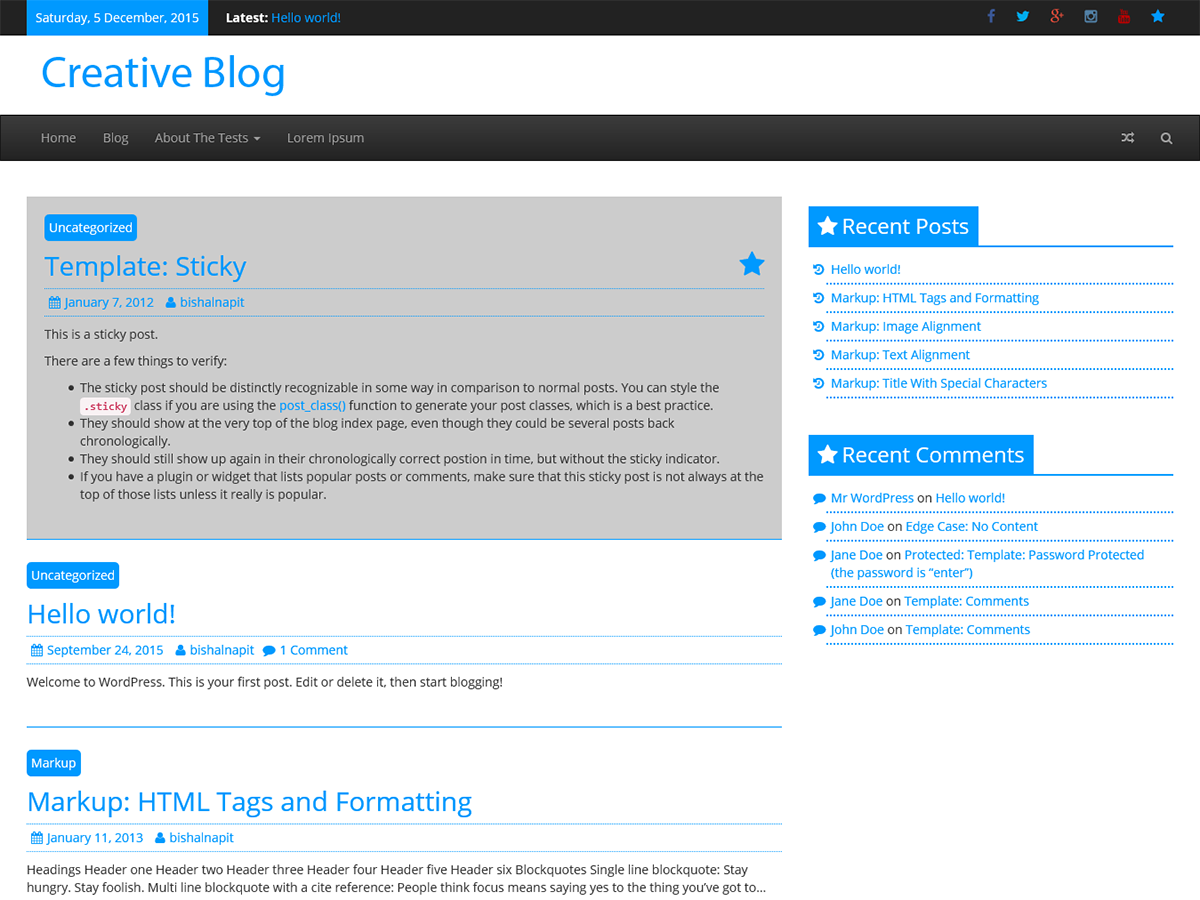
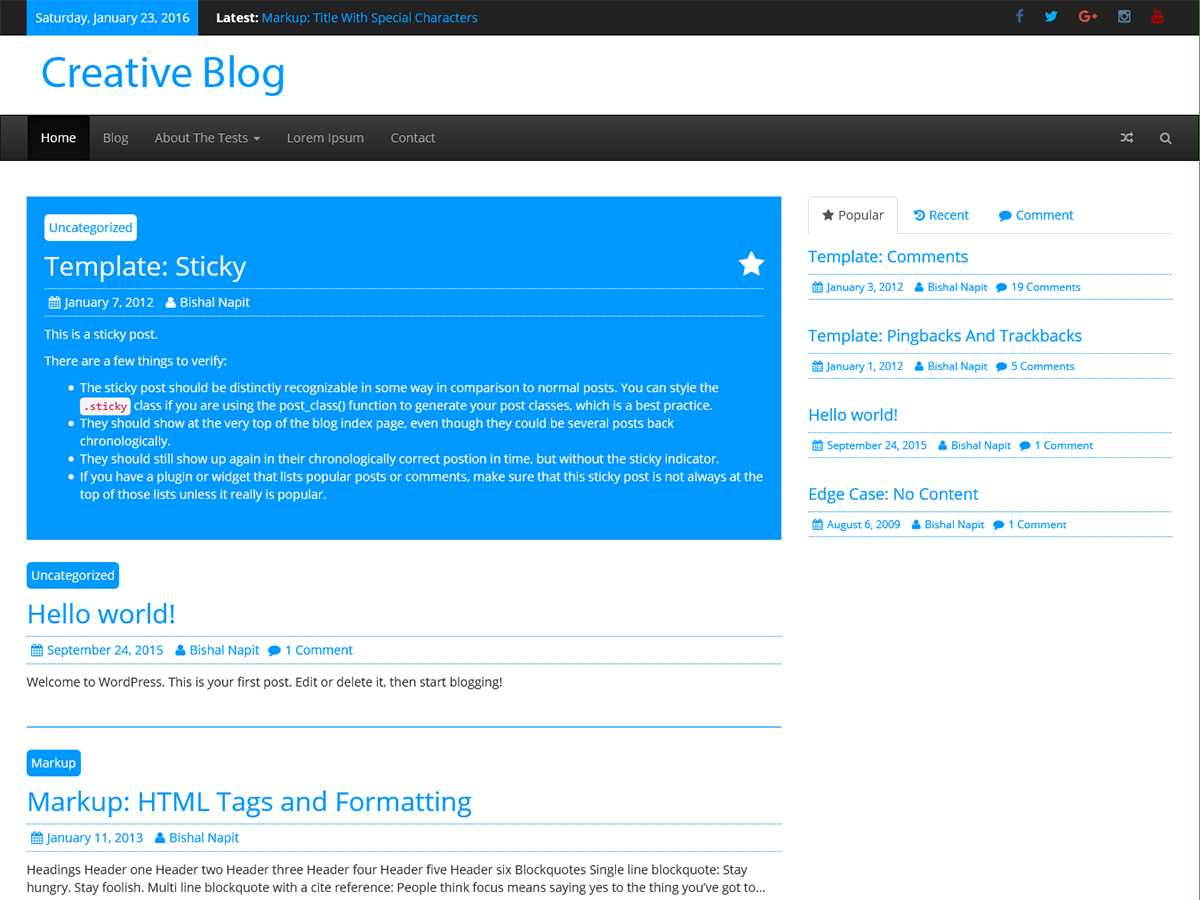
Sticky post and other post format styling adjustments done

diff --git a/style.css b/style.css
@@ -415,11 +415,32 @@ ul#menu-social {
     font-family: 'FontAwesome';
     float: right;
     content: "\f005";
-    color: #0099ff;
+    color: #fff;
 }
 .sticky {
-    background: #ccc;
+    background: #0099ff;
     padding: 20px;
+    color: #fff;
+}
+.sticky .entry-title a {
+    color: #fff;
+}
+.sticky .entry-meta a {
+    color: #fff;
+}
+.sticky .entry-meta {
+    border-top: 1px dotted #fff;
+    border-bottom: 1px dotted #fff;
+}
+.sticky .category-links a {
+    background-color: #fff;
+    color: #0099ff;
+}
+.sticky .category-links a:hover {
+    color: #0099ff;
+}
+.sticky .entry-content a {
+    color: #fff;
 }
 .sticky .entry-content {
     padding-bottom: 10px;
@@ -432,6 +453,9 @@ ul#menu-social {
 .sticky .continue-more-link:hover, .continue-more-link:hover {
     border: none;
     background: #0099ff;
+}
+.sticky .featured-image img {
+    border: 1px solid #fff;
 }
 
 /* meta */
@@ -457,6 +481,9 @@ ul#menu-social {
     border-radius: 5px;
     color: #fff;
     display: inline-block;
+}
+.category-links a:hover {
+    color: #fff;
 }
 .tags-links .fa {
     color: #0099ff;
@@ -669,17 +696,21 @@ ol.children {
     float: left;
 }
 .format-chat .chat-details {
-    background-color: #ccc;
+    background-color: #0099ff;
     padding: 20px;
     font-style: italic;
     margin-bottom: 20px;
     font-size: 18px;
+    color: #fff;
 }
 .format-link .link-details {
     margin-bottom: 20px;
-    background-color: #ccc;
+    background-color: #0099ff;
     padding: 20px;
     font-size: 20px;
+}
+.format-link .link-details a {
+    color: #fff;
 }
 .format-link .link-details a:before {
     font-family: 'fontawesome';
@@ -687,16 +718,23 @@ ol.children {
     margin-right: 5px;
 }
 .format-quote .quote-details {
-    background-color: #ccc;
+    background-color: #0099ff;
     padding: 20px;
     margin-bottom: 20px;
 }
 .format-quote .quote-details blockquote {
     font-size: 22px;
     border-left: 0;
+    color: #fff;
 }
 .format-quote .quote-details cite {
     font-size: 14px;
+    color: #fff;
+}
+.format-quote .quote-details cite:before {
+    font-family: 'fontawesome';
+    content: "\f068";
+    margin-right: 5px;
 }
 .format-quote .quote-details blockquote p:before {
     font-family: 'fontawesome';

diff --git a/inc/extras.php b/inc/extras.php
@@ -282,7 +282,7 @@ function creative_blog_custom_css() {
     $creative_blog_custom_options_color = '';
     $primary_color = get_theme_mod('creative_blog_primary_color', '#0099ff');
     if ($primary_color != '#0099ff') {
-        $creative_blog_custom_options_color .= 'a,a:focus,a:hover{color:' . $primary_color . '}td,th,tr{border:2px solid ' . $primary_color . '}.date-in-header{background-color:' . $primary_color . '}.navigation .nav-next:after,.navigation .nav-previous:before,.newsticker a{color:' . $primary_color . '}.search-field{border:1px solid ' . $primary_color . '}.searchsubmit{background-color:' . $primary_color . '}#menu-social li a::before{color:' . $primary_color . '}.post,.search .page{border-bottom:1px solid ' . $primary_color . '}.related-posts-main-title,.related-posts-main-title .fa{color:' . $primary_color . '}.custom-page-header .page-title{border-bottom:2px solid ' . $primary_color . '}.custom-page-header .page-title span{background:' . $primary_color . '}.sticky .entry-title:after{color:' . $primary_color . '}.continue-more-link,.continue-more-link:hover,.sticky .continue-more-link,.sticky .continue-more-link:hover{background:' . $primary_color . '}.entry-meta{border-bottom:1px dotted ' . $primary_color . ';border-top:1px dotted ' . $primary_color . '}.category-links a{background-color:' . $primary_color . '}.comments-link,.tags-links .fa{color:' . $primary_color . '}.comment-respond .form-submit input[type=submit]{background:' . $primary_color . '}.bypostauthor>.comment-body .fn:before{color:' . $primary_color . '}.comment-author,.comments-area .comment-meta .edit-link:before{color:' . $primary_color . '}.author-box{border:1px dotted ' . $primary_color . '}.featured-image img{border:1px solid ' . $primary_color . '}.format-status .status-details{border-top:1px solid ' . $primary_color . ';border-bottom:1px solid ' . $primary_color . '}a#scroll-up i{color:' . $primary_color . '}.widget-title span{background-color:' . $primary_color . ';border-bottom:1px solid ' . $primary_color . '}.widget-title{border-bottom:2px solid ' . $primary_color . '}.widget_nav_menu a,.widget_pages a,.widget_recent_comments li,.widget_recent_entries li{border-bottom:2px dotted ' . $primary_color . '}.widget_archive li:before,.widget_categories li:before,.widget_nav_menu li:before,.widget_pages li:before,.widget_recent_comments li:before,.widget_recent_entries li:before,.widget_rss li:before{color:' . $primary_color . '}.wp-caption{border:1px solid ' . $primary_color . '}input[type="submit"]{background-color:' . $primary_color . ';border:1px solid ' . $primary_color . '}input[type="file"]{background-color:' . $primary_color . '}.content-top-sidebar{border-bottom:1px solid '. $primary_color . '}.content-bottom-sidebar{border-top:1px solid '. $primary_color . '}';
+        $creative_blog_custom_options_color .= 'a,a:focus,a:hover{color:' . $primary_color . '}td,th,tr{border:2px solid ' . $primary_color . '}.date-in-header{background-color:' . $primary_color . '}.navigation .nav-next:after,.navigation .nav-previous:before,.newsticker a{color:' . $primary_color . '}.search-field{border:1px solid ' . $primary_color . '}.searchsubmit{background-color:' . $primary_color . '}#menu-social li a::before{color:' . $primary_color . '}.post,.search .page{border-bottom:1px solid ' . $primary_color . '}.related-posts-main-title,.related-posts-main-title .fa{color:' . $primary_color . '}.custom-page-header .page-title{border-bottom:2px solid ' . $primary_color . '}.custom-page-header .page-title span{background:' . $primary_color . '}.continue-more-link,.continue-more-link:hover,.sticky .continue-more-link,.sticky .continue-more-link:hover{background:' . $primary_color . '}.entry-meta{border-bottom:1px dotted ' . $primary_color . ';border-top:1px dotted ' . $primary_color . '}.category-links a{background-color:' . $primary_color . '}.comments-link,.tags-links .fa{color:' . $primary_color . '}.comment-respond .form-submit input[type=submit]{background:' . $primary_color . '}.bypostauthor>.comment-body .fn:before{color:' . $primary_color . '}.comment-author,.comments-area .comment-meta .edit-link:before{color:' . $primary_color . '}.author-box{border:1px dotted ' . $primary_color . '}.featured-image img{border:1px solid ' . $primary_color . '}.format-status .status-details{border-top:1px solid ' . $primary_color . ';border-bottom:1px solid ' . $primary_color . '}a#scroll-up i{color:' . $primary_color . '}.widget-title span{background-color:' . $primary_color . ';border-bottom:1px solid ' . $primary_color . '}.widget-title{border-bottom:2px solid ' . $primary_color . '}.widget_nav_menu a,.widget_pages a,.widget_recent_comments li,.widget_recent_entries li{border-bottom:2px dotted ' . $primary_color . '}.widget_archive li:before,.widget_categories li:before,.widget_nav_menu li:before,.widget_pages li:before,.widget_recent_comments li:before,.widget_recent_entries li:before,.widget_rss li:before{color:' . $primary_color . '}.wp-caption{border:1px solid ' . $primary_color . '}input[type="submit"]{background-color:' . $primary_color . ';border:1px solid ' . $primary_color . '}input[type="file"]{background-color:' . $primary_color . '}.content-top-sidebar{border-bottom:1px solid '. $primary_color . '}.content-bottom-sidebar{border-top:1px solid '. $primary_color . '}.sticky{background:'. $primary_color . '}.sticky .category-links a{color:'. $primary_color . '}.format-chat .chat-details{background-color:'. $primary_color . '}.format-link .link-details{background-color:'. $primary_color . '}.format-quote .quote-details{background-color:'. $primary_color . '}.sticky .category-links a:hover{color:'. $primary_color . '}';
     }
 
     // color change options code

diff --git a/readme.md b/readme.md
@@ -32,6 +32,7 @@ If you've translated this theme into your native language, then, feel free to se
 ## CHANGELOG
 #### VERSION 0.3
 * Magnific Popup updated to version 1.0.1
+* Screenshot Changed
 
 #### VERSION 0.2
 * Added the feature to make the primary menu sticky
